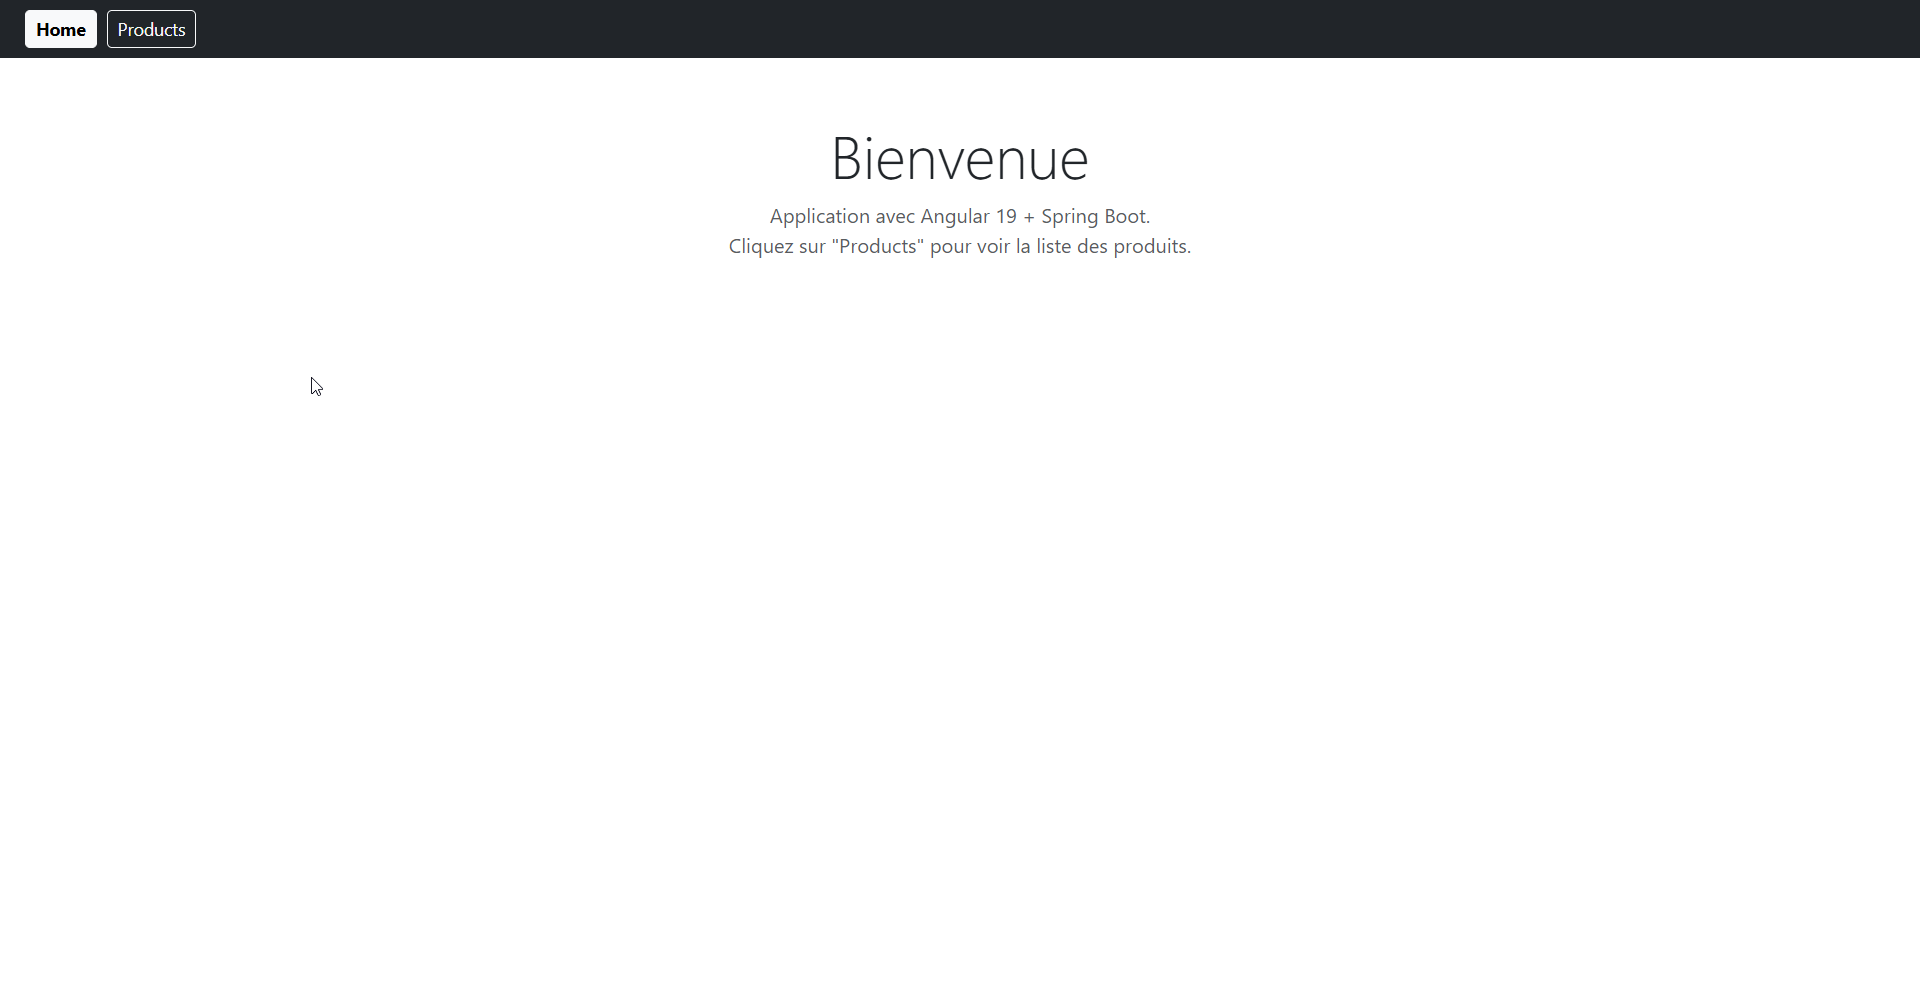
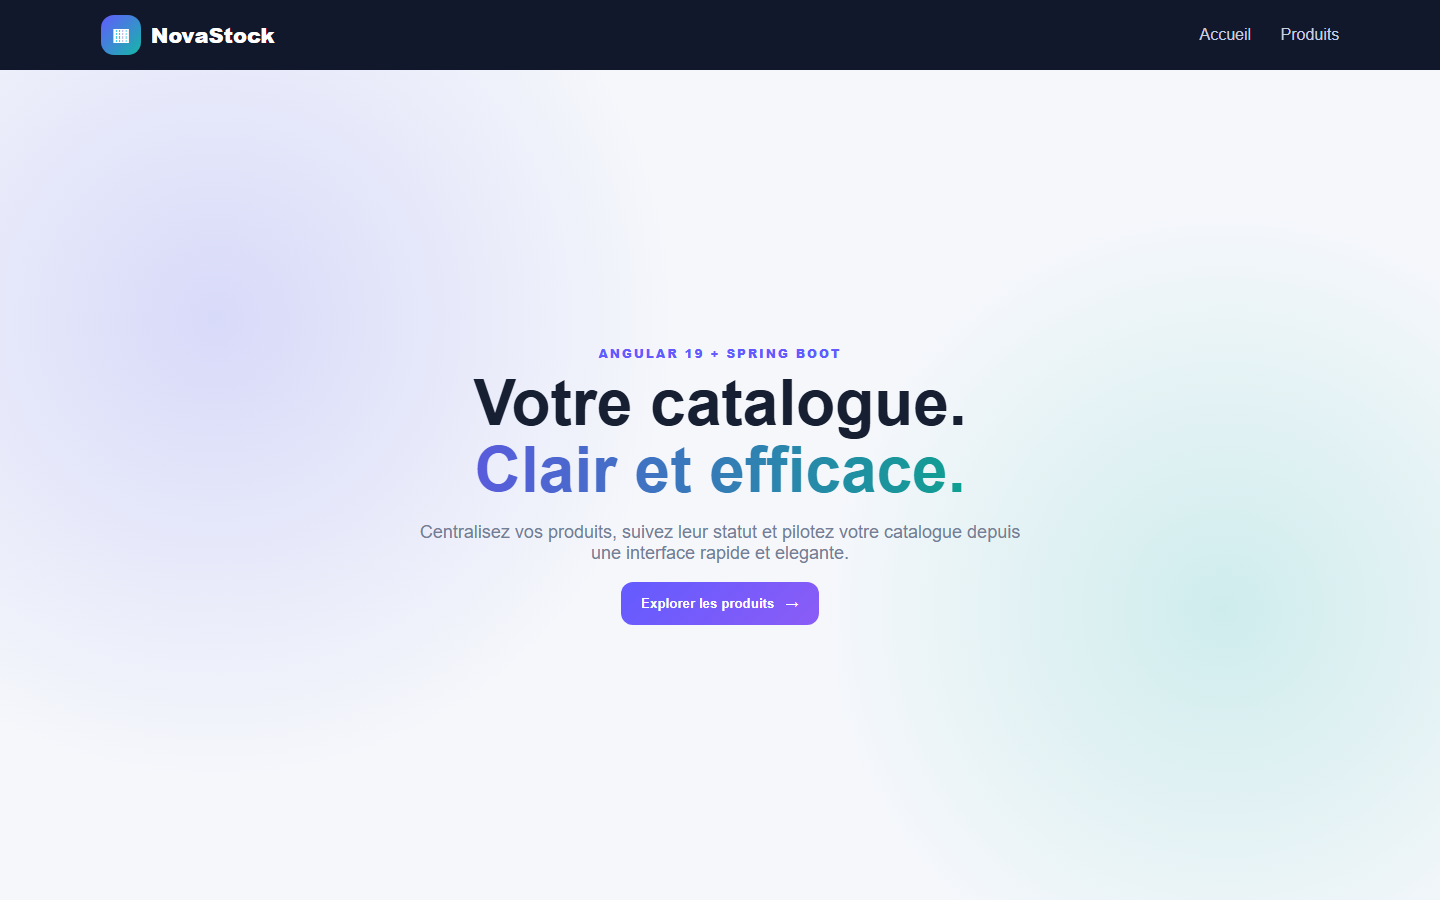
feat: redesign activity interfaces and refresh screenshots

diff --git a/Activité Pratique N°4 - Angular Framework/frontend/src/styles.css b/Activité Pratique N°4 - Angular Framework/frontend/src/styles.css
@@ -1,1 +1,6 @@
-/* You can add global styles to this file, and also import other style files */
+@import url('https://fonts.googleapis.com/css2?family=DM+Sans:wght@400;500;600;700&family=Manrope:wght@700;800&display=swap');
+:root{--ink:#14213d;--muted:#718096;--primary:#5b5ce2;--cyan:#14b8a6;--bg:#f5f7fb;--line:#e8eaf2}
+*{box-sizing:border-box}body{margin:0;background:var(--bg);color:var(--ink);font-family:'DM Sans',sans-serif}h1,h2,h3,.brand{font-family:'Manrope',sans-serif}
+.topbar{background:#11182d;padding:.85rem 0;box-shadow:0 12px 30px rgba(17,24,45,.15)}.brand{color:#fff;text-decoration:none;font-size:1.15rem;font-weight:800}.brand-icon{display:inline-grid;place-items:center;width:38px;height:38px;border-radius:12px;background:linear-gradient(135deg,#6366f1,#14b8a6);margin-right:.55rem}.nav-pill{color:#b9c1d6;text-decoration:none;padding:.6rem 1rem;border-radius:11px;font-weight:600}.nav-pill:hover,.nav-pill.active{color:#fff;background:rgba(255,255,255,.1)}
+.hero{min-height:calc(100vh - 66px);display:grid;place-items:center;overflow:hidden;position:relative;background:radial-gradient(circle at 15% 30%,rgba(99,102,241,.2),transparent 34%),radial-gradient(circle at 85% 65%,rgba(20,184,166,.17),transparent 30%)}.hero-card{max-width:850px;text-align:center;padding:5rem 2rem}.eyebrow{text-transform:uppercase;letter-spacing:.16em;color:var(--primary);font-size:.75rem;font-weight:700}.hero h1{font-size:clamp(2.6rem,7vw,5rem);line-height:1.02;font-weight:800;letter-spacing:-.05em}.gradient-text{background:linear-gradient(100deg,#595bdc,#0f9f91);background-clip:text;color:transparent}.hero-copy{max-width:620px;margin:1.4rem auto;color:var(--muted);font-size:1.12rem}.btn-gradient{border:0;border-radius:13px;padding:.85rem 1.25rem;color:#fff;background:linear-gradient(135deg,#5b5ce2,#14b8a6);font-weight:700;text-decoration:none;display:inline-block}
+.page-wrap{padding:2.5rem 0 5rem}.page-head{display:flex;justify-content:space-between;align-items:end;margin-bottom:1.5rem}.page-title{font-weight:800;font-size:2.25rem}.metric{background:#fff;border:1px solid var(--line);border-radius:18px;padding:1rem 1.25rem;min-width:150px}.metric strong{font-size:1.55rem;display:block}.metric span{color:var(--muted);font-size:.8rem}.panel{background:#fff;border:1px solid var(--line);border-radius:22px;box-shadow:0 15px 35px rgba(20,33,61,.06);overflow:hidden}.modern-table{margin:0}.modern-table thead th{background:#f8f9fc;border:0;color:#7a8499;text-transform:uppercase;letter-spacing:.08em;font-size:.72rem;padding:1rem 1.25rem}.modern-table td{padding:1rem 1.25rem;border-color:#f0f2f7}.product-icon{display:inline-grid;place-items:center;width:38px;height:38px;border-radius:12px;background:#eef0ff;color:var(--primary);margin-right:.7rem}.status{border-radius:999px;padding:.35rem .65rem;font-weight:700;font-size:.76rem}.status-on{background:#e5f8f1;color:#087a55}.status-off{background:#f1f3f8;color:#778196}.icon-btn{border:0;width:36px;height:36px;border-radius:10px}.delete-btn{background:#fff0f2;color:#d64562}.refresh-btn{border:1px solid var(--line);background:#fff;border-radius:11px;padding:.65rem 1rem;font-weight:600;color:var(--ink)}

diff --git a/Activité Pratique N°3 - Application Web Spring Boot/tp3-webapp/src/main/resources/static/css/app.css b/Activité Pratique N°3 - Application Web Spring Boot/tp3-webapp/src/main/resources/static/css/app.css
@@ -1,0 +1,14 @@
+@import url('https://fonts.googleapis.com/css2?family=DM+Sans:wght@400;500;600;700&family=Manrope:wght@700;800&display=swap');
+:root{--ink:#172033;--muted:#718096;--primary:#635bff;--primary2:#8b5cf6;--surface:#fff;--line:#e8eaf2;--bg:#f5f7fb}
+*{box-sizing:border-box} body{font-family:'DM Sans',sans-serif;background:var(--bg);color:var(--ink);min-height:100vh}
+h1,h2,h3,h4,.navbar-brand{font-family:'Manrope',sans-serif}.app-nav{background:#12182b!important;padding:.85rem 0;box-shadow:0 10px 30px rgba(20,24,45,.12)}
+.brand-mark{display:inline-grid;place-items:center;width:38px;height:38px;border-radius:12px;background:linear-gradient(135deg,var(--primary),#9f7aea);margin-right:.55rem}
+.nav-link{border-radius:10px;padding:.55rem .85rem!important}.nav-link:hover{background:rgba(255,255,255,.08)}
+.page-shell{padding-top:2.2rem;padding-bottom:4rem}.eyebrow{text-transform:uppercase;letter-spacing:.14em;font-size:.72rem;font-weight:700;color:var(--primary)}
+.hero-title{font-size:clamp(1.8rem,4vw,2.55rem);font-weight:800}.soft-card{background:#fff;border:1px solid var(--line);border-radius:22px;box-shadow:0 14px 35px rgba(22,32,51,.06)}
+.search-panel{padding:1rem}.form-control,.input-group-text{border-color:var(--line);padding:.78rem 1rem}.form-control:focus{border-color:#a9a4ff;box-shadow:0 0 0 .22rem rgba(99,91,255,.12)}
+.btn{border-radius:11px;font-weight:600;padding:.7rem 1rem}.btn-primary{background:linear-gradient(135deg,var(--primary),var(--primary2));border:0}.btn-primary:hover{filter:brightness(.95)}
+.btn-success{background:var(--primary);border-color:var(--primary)}.table-card{overflow:hidden}.table{margin:0}.table thead th{background:#f8f9fc;color:#75809a;border:0;text-transform:uppercase;letter-spacing:.08em;font-size:.72rem;padding:1rem 1.2rem}.table tbody td{padding:1rem 1.2rem;border-color:#f0f1f6}.product-name{font-weight:700}.stock-pill{display:inline-flex;padding:.35rem .65rem;border-radius:999px;font-weight:700;font-size:.78rem}.stock-ok{color:#087a55;background:#e5f8f1}.stock-low{color:#c2415b;background:#fff0f3}
+.form-card{max-width:680px;margin:auto;padding:2rem}.icon-bubble{display:grid;place-items:center;width:52px;height:52px;border-radius:16px;color:#fff;background:linear-gradient(135deg,var(--primary),var(--primary2));font-size:1.35rem}
+.login-page{background:radial-gradient(circle at 10% 20%,#7c6cff 0,transparent 28%),radial-gradient(circle at 90% 80%,#22d3ee 0,transparent 25%),#12182b}.login-card{width:min(92%,440px);border:1px solid rgba(255,255,255,.12);border-radius:26px;overflow:hidden;box-shadow:0 30px 80px rgba(0,0,0,.35)}
+.login-brand{background:#181f35;color:#fff;padding:2rem}.login-body{background:#fff;padding:2rem}.login-logo{display:grid;place-items:center;width:56px;height:56px;margin:0 auto 1rem;border-radius:18px;background:linear-gradient(135deg,var(--primary),var(--primary2));font-size:1.5rem}

diff --git a/Activité Pratique N°4 - Angular Framework/frontend/src/app/pages/products/products.component.html b/Activité Pratique N°4 - Angular Framework/frontend/src/app/pages/products/products.component.html
@@ -1,35 +1,35 @@
-<div class="container py-4">
-  <div class="d-flex justify-content-between align-items-center mb-3">
-    <h2>Liste des produits</h2>
-    <button class="btn btn-outline-secondary btn-sm" (click)="loadProducts()">Rafraîchir</button>
+<main class="container page-wrap">
+  <div class="page-head">
+    <div><div class="eyebrow mb-2">Catalogue</div><h2 class="page-title mb-1">Tous les produits</h2><p class="text-muted mb-0">Consultez et organisez les produits disponibles.</p></div>
+    <div class="d-flex gap-3 align-items-center"><div class="metric"><strong>{{ products.length }}</strong><span>produits au total</span></div><button class="refresh-btn" (click)="loadProducts()"><i class="bi bi-arrow-clockwise me-2"></i>Actualiser</button></div>
   </div>
 
-  <table class="table table-striped table-bordered align-middle">
-    <thead class="table-dark">
+  <div class="panel table-responsive"><table class="table modern-table align-middle">
+    <thead>
       <tr>
         <th>ID</th>
         <th>Nom</th>
         <th>Prix (DH)</th>
-        <th>Selected</th>
+        <th>Statut</th>
         <th>Action</th>
       </tr>
     </thead>
     <tbody>
       <tr *ngFor="let product of products" [class.table-active]="product.selected">
         <td>{{ product.id }}</td>
-        <td>{{ product.name }}</td>
+        <td><span class="product-icon"><i class="bi bi-box-seam"></i></span><strong>{{ product.name }}</strong></td>
         <td>{{ product.price | number:'1.2-2' }}</td>
         <td>
-          <input type="radio" class="form-check-input" [checked]="product.selected" (click)="$event.preventDefault(); toggleSelected(product)">
+          <button class="border-0 bg-transparent" (click)="toggleSelected(product)"><span class="status" [class.status-on]="product.selected" [class.status-off]="!product.selected">{{ product.selected ? 'Actif' : 'Inactif' }}</span></button>
         </td>
         <td>
-          <button class="btn btn-danger btn-sm" (click)="onDelete(product.id)">
-            <i class="bi bi-trash"></i> Delete
+          <button class="icon-btn delete-btn" (click)="onDelete(product)">
+            <i class="bi bi-trash"></i>
           </button>
         </td>
       </tr>
     </tbody>
-  </table>
+  </table></div>
 
   <p *ngIf="products.length === 0" class="text-muted">Aucun produit disponible.</p>
-</div>
+</main>

diff --git a/Activité Pratique N°3 - Application Web Spring Boot/tp3-webapp/src/main/resources/templates/products/list.html b/Activité Pratique N°3 - Application Web Spring Boot/tp3-webapp/src/main/resources/templates/products/list.html
@@ -9,15 +9,15 @@
 <body>
 <div layout:fragment="content">
 
-    <div class="d-flex justify-content-between align-items-center mb-3">
-        <h2><i class="bi bi-box-seam"></i> Liste des Produits</h2>
+    <div class="d-flex justify-content-between align-items-end mb-4">
+        <div><div class="eyebrow mb-2">Catalogue</div><h2 class="hero-title mb-1">Tous les produits</h2><p class="text-muted mb-0">Pilotez votre inventaire en un coup d'oeil.</p></div>
         <a sec:authorize="hasRole('ADMIN')" th:href="@{/products/new}" class="btn btn-success">
             <i class="bi bi-plus-lg"></i> Nouveau Produit
         </a>
     </div>
 
     <!-- Barre de recherche -->
-    <form th:action="@{/products}" method="get" class="row g-2 mb-4">
+    <form th:action="@{/products}" method="get" class="row g-2 mb-4 soft-card search-panel">
         <div class="col-md-8">
             <input type="text" name="keyword" th:value="${keyword}"
                    class="form-control" placeholder="Rechercher un produit...">
@@ -35,9 +35,9 @@
     </form>
 
     <!-- Tableau des produits -->
-    <div class="table-responsive">
-        <table class="table table-striped table-hover align-middle">
-            <thead class="table-dark">
+    <div class="table-responsive soft-card table-card">
+        <table class="table table-hover align-middle">
+            <thead>
                 <tr>
                     <th>#</th>
                     <th>Nom</th>
@@ -52,10 +52,10 @@
                 </tr>
                 <tr th:each="p : ${products}">
                     <td th:text="${p.id}"></td>
-                    <td th:text="${p.name}"></td>
+                    <td class="product-name" th:text="${p.name}"></td>
                     <td th:text="${#numbers.formatDecimal(p.price, 1, 2)} + ' MAD'"></td>
                     <td>
-                        <span th:class="${p.quantity < 5} ? 'badge bg-danger' : 'badge bg-success'"
+                        <span th:class="${p.quantity < 5} ? 'stock-pill stock-low' : 'stock-pill stock-ok'"
                               th:text="${p.quantity}"></span>
                     </td>
                     <td sec:authorize="hasRole('ADMIN')">

diff --git a/Activité Pratique N°3 - Application Web Spring Boot/tp3-webapp/src/main/resources/templates/security/login.html b/Activité Pratique N°3 - Application Web Spring Boot/tp3-webapp/src/main/resources/templates/security/login.html
@@ -5,18 +5,16 @@
     <title>Connexion</title>
     <link href="https://cdn.jsdelivr.net/npm/bootstrap@5.3.3/dist/css/bootstrap.min.css" rel="stylesheet">
     <link href="https://cdn.jsdelivr.net/npm/bootstrap-icons@1.11.3/font/bootstrap-icons.min.css" rel="stylesheet">
-    <style>
-        body { background: linear-gradient(135deg, #1a1a2e, #16213e); min-height: 100vh; }
-    </style>
+    <link th:href="@{/css/app.css}" rel="stylesheet">
 </head>
-<body class="d-flex align-items-center justify-content-center">
-<div class="col-md-4">
-    <div class="card shadow-lg border-0">
-        <div class="card-header bg-dark text-white text-center py-4">
-            <h3><i class="bi bi-box-seam"></i> Gestion Produits</h3>
-            <p class="mb-0 text-muted">Veuillez vous connecter</p>
+<body class="login-page d-flex align-items-center justify-content-center">
+<div class="login-card">
+        <div class="login-brand text-center">
+            <div class="login-logo"><i class="bi bi-box-seam"></i></div>
+            <h3>Bienvenue sur NovaStock</h3>
+            <p class="mb-0 text-white-50">Votre inventaire, simplement maitrise.</p>
         </div>
-        <div class="card-body p-4">
+        <div class="login-body">
 
             <!-- Message d'erreur -->
             <div th:if="${param.error}" class="alert alert-danger">
@@ -53,7 +51,6 @@
                 Comptes de test : <strong>admin/1234</strong> (ADMIN) &nbsp;|&nbsp; <strong>user1/1234</strong> (USER)
             </p>
         </div>
-    </div>
 </div>
 <script src="https://cdn.jsdelivr.net/npm/bootstrap@5.3.3/dist/js/bootstrap.bundle.min.js"></script>
 </body>

diff --git a/Activité Pratique N°3 - Application Web Spring Boot/tp3-webapp/src/main/resources/templates/products/form.html b/Activité Pratique N°3 - Application Web Spring Boot/tp3-webapp/src/main/resources/templates/products/form.html
@@ -9,15 +9,14 @@
 <div layout:fragment="content">
 
     <div class="row justify-content-center">
-        <div class="col-md-6">
-            <div class="card shadow">
-                <div class="card-header bg-primary text-white">
-                    <h4 class="mb-0">
+        <div class="col-md-8">
+            <div class="soft-card form-card">
+                <div class="d-flex align-items-center gap-3 mb-4">
+                    <div class="icon-bubble">
                         <i th:class="${product.id == null} ? 'bi bi-plus-circle' : 'bi bi-pencil-square'"></i>
-                        <span th:text="${product.id == null} ? 'Nouveau Produit' : 'Modifier le Produit'"></span>
-                    </h4>
+                    </div><div><div class="eyebrow">Catalogue</div><h4 class="mb-0" th:text="${product.id == null} ? 'Nouveau produit' : 'Modifier le produit'"></h4></div>
                 </div>
-                <div class="card-body">
+                <div>
                     <form th:action="@{/products/save}" th:object="${product}" method="post" novalidate>
                         <!-- Champ caché pour l'id (modification) -->
                         <input type="hidden" th:field="*{id}">

diff --git a/Activité Pratique N°3 - Application Web Spring Boot/tp3-webapp/src/main/resources/templates/layout/template.html b/Activité Pratique N°3 - Application Web Spring Boot/tp3-webapp/src/main/resources/templates/layout/template.html
@@ -10,14 +10,15 @@
     <link href="https://cdn.jsdelivr.net/npm/bootstrap@5.3.3/dist/css/bootstrap.min.css" rel="stylesheet">
     <!-- Bootstrap Icons -->
     <link href="https://cdn.jsdelivr.net/npm/bootstrap-icons@1.11.3/font/bootstrap-icons.min.css" rel="stylesheet">
+    <link th:href="@{/css/app.css}" rel="stylesheet">
 </head>
 <body>
 
 <!-- Navbar -->
-<nav class="navbar navbar-expand-lg navbar-dark bg-dark">
+<nav class="navbar navbar-expand-lg navbar-dark app-nav">
     <div class="container">
         <a class="navbar-brand fw-bold" th:href="@{/products}">
-            <i class="bi bi-box-seam"></i> Gestion Produits
+            <span class="brand-mark"><i class="bi bi-box-seam"></i></span> NovaStock
         </a>
         <button class="navbar-toggler" type="button" data-bs-toggle="collapse" data-bs-target="#navMenu">
             <span class="navbar-toggler-icon"></span>
@@ -55,7 +56,7 @@
 </nav>
 
 <!-- Contenu principal -->
-<div class="container mt-4">
+<div class="container page-shell">
     <div layout:fragment="content">
         <!-- Contenu injecté par les pages filles -->
     </div>

diff --git a/Activité Pratique N°4 - Angular Framework/frontend/src/app/app.component.html b/Activité Pratique N°4 - Angular Framework/frontend/src/app/app.component.html
@@ -1,7 +1,10 @@
-<nav class="navbar navbar-expand navbar-dark bg-dark px-3">
-  <div class="navbar-nav">
-    <a class="btn btn-outline-light btn-sm mx-1" routerLink="/" routerLinkActive="active" [routerLinkActiveOptions]="{ exact: true }">Home</a>
-    <a class="btn btn-outline-light btn-sm mx-1" routerLink="/products" routerLinkActive="active">Products</a>
+<nav class="topbar">
+  <div class="container d-flex justify-content-between align-items-center">
+    <a class="brand" routerLink="/"><span class="brand-icon"><i class="bi bi-grid-1x2-fill"></i></span>NovaStock</a>
+    <div class="d-flex gap-2">
+      <a class="nav-pill" routerLink="/" routerLinkActive="active" [routerLinkActiveOptions]="{ exact: true }">Accueil</a>
+      <a class="nav-pill" routerLink="/products" routerLinkActive="active">Produits</a>
+    </div>
   </div>
 </nav>
 

diff --git a/Activité Pratique N°4 - Angular Framework/frontend/src/app/pages/home/home.component.html b/Activité Pratique N°4 - Angular Framework/frontend/src/app/pages/home/home.component.html
@@ -1,4 +1,8 @@
-<div class="container py-5 text-center">
-  <h1 class="display-5">Bienvenue</h1>
-  <p class="text-muted">Application avec Angular 19 + Spring Boot.<br>Cliquez sur "Products" pour voir la liste des produits.</p>
-</div>
+<main class="hero">
+  <section class="hero-card">
+    <div class="eyebrow mb-3">Angular 19 + Spring Boot</div>
+    <h1>Votre catalogue.<br><span class="gradient-text">Clair et efficace.</span></h1>
+    <p class="hero-copy">Centralisez vos produits, suivez leur statut et pilotez votre catalogue depuis une interface rapide et elegante.</p>
+    <a class="btn-gradient mt-2" routerLink="/products">Explorer les produits <i class="bi bi-arrow-right ms-2"></i></a>
+  </section>
+</main>

diff --git a/Activité Pratique N°4 - Angular Framework/frontend/src/app/pages/home/home.component.ts b/Activité Pratique N°4 - Angular Framework/frontend/src/app/pages/home/home.component.ts
@@ -1,8 +1,9 @@
 import { Component } from '@angular/core';
+import { RouterLink } from '@angular/router';
 
 @Component({
   selector: 'app-home',
-  imports: [],
+  imports: [RouterLink],
   templateUrl: './home.component.html'
 })
 export class HomeComponent {}

diff --git a/Activité Pratique N°1 - Injection des dépendances/README.md b/Activité Pratique N°1 - Injection des dépendances/README.md
@@ -41,7 +41,8 @@ configuration XML et detection par annotations.
 Cette activite ne possede pas d'interface Web. Les resultats apparaissent dans
 la console de l'IDE : chaque presentation construit le meme service metier en
 utilisant une strategie d'injection differente. Pour documenter l'execution,
-une capture de la console peut etre placee plus tard dans un dossier
-`screenshots` sans modifier le code.
+la vue suivante resume les quatre strategies et les relations entre couches.
+
+![Architecture de l'injection des dependances](screenshots/architecture-ioc.png)
 
 [Retour au README principal](../README.md)

diff --git a/Activité Pratique N°2 - ORM JPA Hibernate Spring Data/README.md b/Activité Pratique N°2 - ORM JPA Hibernate Spring Data/README.md
@@ -48,7 +48,9 @@ les objets du domaine.
 
 Cette activite est centree sur la persistance et ne fournit pas d'interface
 graphique. Les donnees peuvent etre verifiees dans les journaux Spring Boot, la
-console H2 ou avec un client SQL. Les captures pertinentes seraient donc celles
-des tables generees et des requetes executees.
+console H2 ou avec un client SQL. La planche suivante presente les principales
+entites et leurs responsabilites.
+
+![Modele de persistance JPA](screenshots/modele-jpa.png)
 
 [Retour au README principal](../README.md)
